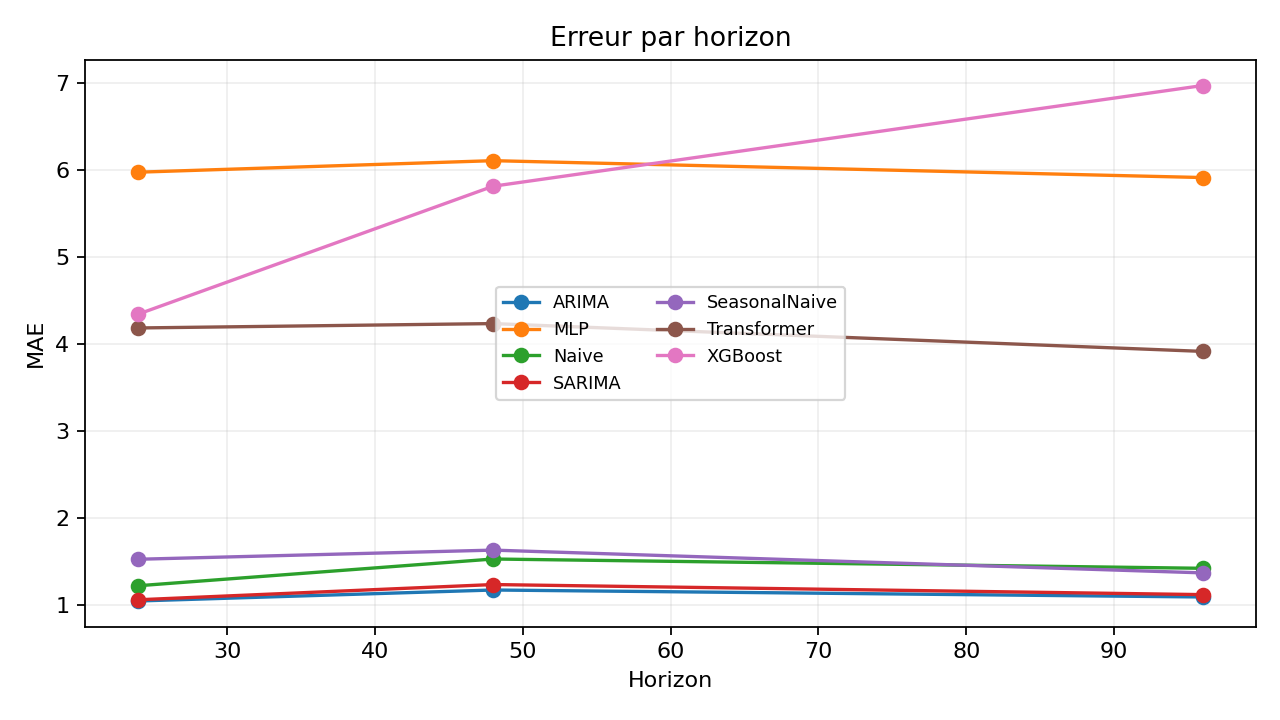
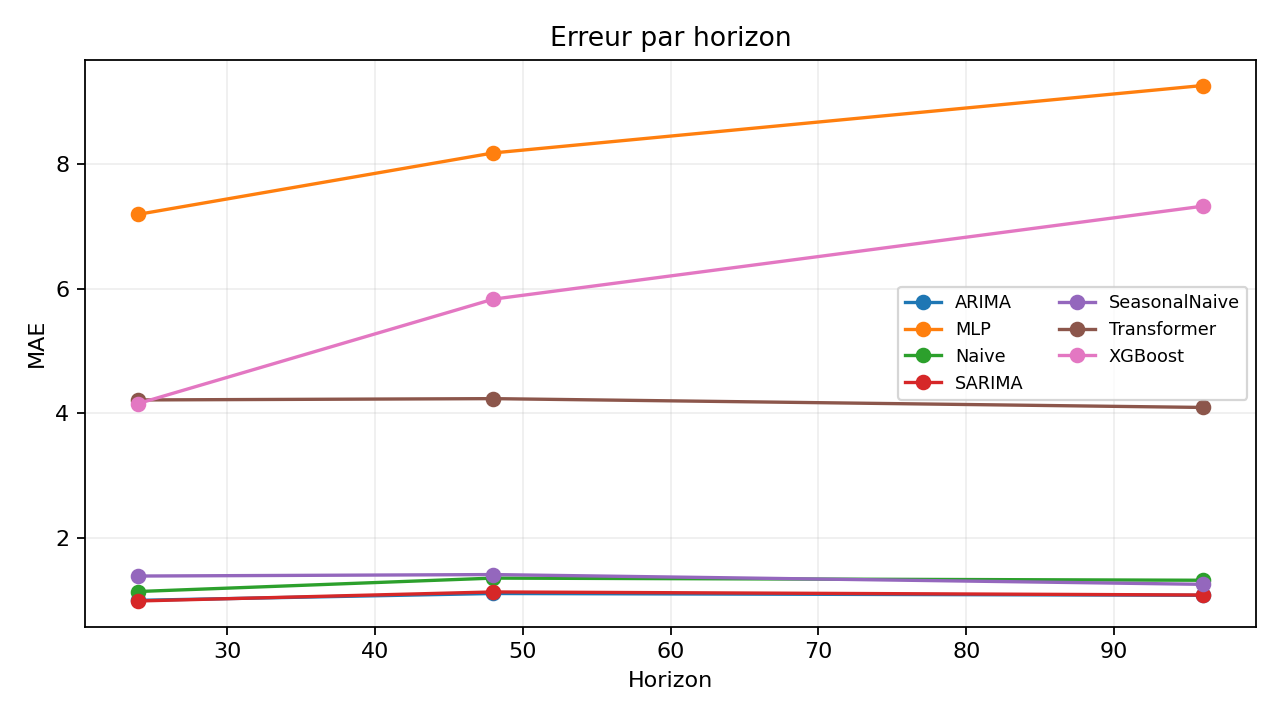
experiment: publish extended CPU benchmark

diff --git a/README.md b/README.md
@@ -11,9 +11,9 @@ pas une revendication d'état de l'art.
 ETTh1 contient 17420 observations horaires. Le split temporel est
 strict, avec frontières aux indices 12194 et
 13935. Le normaliseur est ajusté sur le train uniquement.
-Le run rapporté utilise 4096 fenêtres train,
-64 validation et 64 test,
-avec la seed 42 et la configuration `configs/default.yaml`.
+Le run rapporté utilise 8192 fenêtres train,
+128 validation et 128 test,
+avec la seed 42 et la configuration `configs/long.yaml`.
 
 ## Architecture
 
@@ -37,27 +37,27 @@ multivariés ainsi que l'heure, le jour de semaine et le mois en encodage cycliq
 
 | model | horizon | MAE | RMSE | MAPE | sMAPE |
 | --- | --- | --- | --- | --- | --- |
-| ARIMA | 24 | 1.0489 | 1.3334 | 56.8008 | 49.2920 |
-| SARIMA | 24 | 1.0629 | 1.3495 | 57.7695 | 50.3507 |
-| Naive | 24 | 1.2240 | 1.5502 | 65.3857 | 59.4457 |
-| SeasonalNaive | 24 | 1.5282 | 1.8549 | 87.8313 | 68.1129 |
-| Transformer | 24 | 4.1853 | 4.3594 | 223.1382 | 95.9831 |
-| XGBoost | 24 | 4.3442 | 4.7082 | 231.6889 | 95.2568 |
-| MLP | 24 | 5.9748 | 6.2079 | 310.9857 | 111.3227 |
-| ARIMA | 48 | 1.1750 | 1.4351 | 58.6731 | 50.5312 |
-| SARIMA | 48 | 1.2377 | 1.5115 | 61.8776 | 53.0211 |
-| Naive | 48 | 1.5311 | 1.8757 | 75.4211 | 66.7472 |
-| SeasonalNaive | 48 | 1.6332 | 1.9098 | 85.1341 | 70.0762 |
-| Transformer | 48 | 4.2356 | 4.4268 | 215.2431 | 93.5866 |
-| XGBoost | 48 | 5.8135 | 6.2141 | 282.5437 | 105.7228 |
-| MLP | 48 | 6.1071 | 6.3852 | 304.8798 | 109.2390 |
-| ARIMA | 96 | 1.0949 | 1.3284 | 45.4974 | 42.1078 |
-| SARIMA | 96 | 1.1219 | 1.3774 | 47.0109 | 43.2373 |
-| SeasonalNaive | 96 | 1.3717 | 1.6954 | 61.4562 | 57.2663 |
-| Naive | 96 | 1.4243 | 1.7864 | 59.9222 | 59.2250 |
-| Transformer | 96 | 3.9160 | 4.1100 | 176.5223 | 83.5484 |
-| MLP | 96 | 5.9132 | 6.1586 | 257.4253 | 101.8592 |
-| XGBoost | 96 | 6.9705 | 7.2710 | 289.4379 | 109.0756 |
+| SARIMA | 24 | 0.9808 | 1.2486 | 46.1643 | 39.8982 |
+| ARIMA | 24 | 0.9912 | 1.2543 | 46.1416 | 39.9865 |
+| Naive | 24 | 1.1330 | 1.4406 | 52.9917 | 46.9395 |
+| SeasonalNaive | 24 | 1.3815 | 1.6695 | 67.1171 | 55.3644 |
+| XGBoost | 24 | 4.1532 | 4.5474 | 191.2434 | 85.0250 |
+| Transformer | 24 | 4.2102 | 4.3797 | 191.6749 | 88.3118 |
+| MLP | 24 | 7.1918 | 7.3837 | 308.6812 | 113.2427 |
+| ARIMA | 48 | 1.1012 | 1.3356 | 47.7821 | 41.9891 |
+| SARIMA | 48 | 1.1261 | 1.3732 | 49.4503 | 42.9918 |
+| Naive | 48 | 1.3482 | 1.6743 | 59.6955 | 52.5483 |
+| SeasonalNaive | 48 | 1.4051 | 1.6739 | 64.0825 | 55.3134 |
+| Transformer | 48 | 4.2312 | 4.4105 | 187.8767 | 87.1374 |
+| XGBoost | 48 | 5.8289 | 6.3043 | 250.4910 | 98.7790 |
+| MLP | 48 | 8.1780 | 8.4575 | 344.8114 | 117.1652 |
+| ARIMA | 96 | 1.0724 | 1.3285 | 38.4990 | 36.8905 |
+| SARIMA | 96 | 1.0768 | 1.3425 | 39.2434 | 37.1363 |
+| SeasonalNaive | 96 | 1.2484 | 1.5403 | 48.8360 | 46.8784 |
+| Naive | 96 | 1.3138 | 1.6535 | 49.5611 | 48.3004 |
+| Transformer | 96 | 4.0898 | 4.2660 | 163.4927 | 81.0755 |
+| XGBoost | 96 | 7.3227 | 7.7094 | 272.8322 | 106.0843 |
+| MLP | 96 | 9.2614 | 9.5597 | 346.3863 | 118.6603 |
 
 ![Erreur par horizon](results/error_by_horizon.png)
 
@@ -67,10 +67,10 @@ multivariés ainsi que l'heure, le jour de semaine et le mois en encodage cycliq
 
 ## Analyse honnête
 
-Meilleur MAE observé par horizon: H=24: ARIMA (MAE 1.0489); H=48: ARIMA (MAE 1.1750); H=96: ARIMA (MAE 1.0949).
-Le Transformer ne gagne sur aucun horizon dans ce run. Détail: H=24: écart de 3.1364 MAE face au meilleur modèle; H=48: écart de 3.0606 MAE face au meilleur modèle; H=96: écart de 2.8211 MAE face au meilleur modèle.
+Meilleur MAE observé par horizon: H=24: SARIMA (MAE 0.9808); H=48: ARIMA (MAE 1.1012); H=96: ARIMA (MAE 1.0724).
+Le Transformer ne gagne sur aucun horizon dans ce run. Détail: H=24: écart de 3.2294 MAE face au meilleur modèle; H=48: écart de 3.1301 MAE face au meilleur modèle; H=96: écart de 3.0174 MAE face au meilleur modèle.
 Le temps mesuré d'entraînement du Transformer est
-10.38 s sur `cpu`.
+19.39 s sur `cpu`.
 Ces chiffres décrivent ce run précis et ne sont pas extrapolés. MAPE exclut les
 cibles exactement nulles, pour lesquelles cette métrique est indéfinie.
 

diff --git a/results/metrics.md b/results/metrics.md
@@ -1,23 +1,23 @@
 | model | horizon | MAE | RMSE | MAPE | sMAPE |
 | --- | --- | --- | --- | --- | --- |
-| ARIMA | 24 | 1.0489 | 1.3334 | 56.8008 | 49.2920 |
-| SARIMA | 24 | 1.0629 | 1.3495 | 57.7695 | 50.3507 |
-| Naive | 24 | 1.2240 | 1.5502 | 65.3857 | 59.4457 |
-| SeasonalNaive | 24 | 1.5282 | 1.8549 | 87.8313 | 68.1129 |
-| Transformer | 24 | 4.1853 | 4.3594 | 223.1382 | 95.9831 |
-| XGBoost | 24 | 4.3442 | 4.7082 | 231.6889 | 95.2568 |
-| MLP | 24 | 5.9748 | 6.2079 | 310.9857 | 111.3227 |
-| ARIMA | 48 | 1.1750 | 1.4351 | 58.6731 | 50.5312 |
-| SARIMA | 48 | 1.2377 | 1.5115 | 61.8776 | 53.0211 |
-| Naive | 48 | 1.5311 | 1.8757 | 75.4211 | 66.7472 |
-| SeasonalNaive | 48 | 1.6332 | 1.9098 | 85.1341 | 70.0762 |
-| Transformer | 48 | 4.2356 | 4.4268 | 215.2431 | 93.5866 |
-| XGBoost | 48 | 5.8135 | 6.2141 | 282.5437 | 105.7228 |
-| MLP | 48 | 6.1071 | 6.3852 | 304.8798 | 109.2390 |
-| ARIMA | 96 | 1.0949 | 1.3284 | 45.4974 | 42.1078 |
-| SARIMA | 96 | 1.1219 | 1.3774 | 47.0109 | 43.2373 |
-| SeasonalNaive | 96 | 1.3717 | 1.6954 | 61.4562 | 57.2663 |
-| Naive | 96 | 1.4243 | 1.7864 | 59.9222 | 59.2250 |
-| Transformer | 96 | 3.9160 | 4.1100 | 176.5223 | 83.5484 |
-| MLP | 96 | 5.9132 | 6.1586 | 257.4253 | 101.8592 |
-| XGBoost | 96 | 6.9705 | 7.2710 | 289.4379 | 109.0756 |
+| SARIMA | 24 | 0.9808 | 1.2486 | 46.1643 | 39.8982 |
+| ARIMA | 24 | 0.9912 | 1.2543 | 46.1416 | 39.9865 |
+| Naive | 24 | 1.1330 | 1.4406 | 52.9917 | 46.9395 |
+| SeasonalNaive | 24 | 1.3815 | 1.6695 | 67.1171 | 55.3644 |
+| XGBoost | 24 | 4.1532 | 4.5474 | 191.2434 | 85.0250 |
+| Transformer | 24 | 4.2102 | 4.3797 | 191.6749 | 88.3118 |
+| MLP | 24 | 7.1918 | 7.3837 | 308.6812 | 113.2427 |
+| ARIMA | 48 | 1.1012 | 1.3356 | 47.7821 | 41.9891 |
+| SARIMA | 48 | 1.1261 | 1.3732 | 49.4503 | 42.9918 |
+| Naive | 48 | 1.3482 | 1.6743 | 59.6955 | 52.5483 |
+| SeasonalNaive | 48 | 1.4051 | 1.6739 | 64.0825 | 55.3134 |
+| Transformer | 48 | 4.2312 | 4.4105 | 187.8767 | 87.1374 |
+| XGBoost | 48 | 5.8289 | 6.3043 | 250.4910 | 98.7790 |
+| MLP | 48 | 8.1780 | 8.4575 | 344.8114 | 117.1652 |
+| ARIMA | 96 | 1.0724 | 1.3285 | 38.4990 | 36.8905 |
+| SARIMA | 96 | 1.0768 | 1.3425 | 39.2434 | 37.1363 |
+| SeasonalNaive | 96 | 1.2484 | 1.5403 | 48.8360 | 46.8784 |
+| Naive | 96 | 1.3138 | 1.6535 | 49.5611 | 48.3004 |
+| Transformer | 96 | 4.0898 | 4.2660 | 163.4927 | 81.0755 |
+| XGBoost | 96 | 7.3227 | 7.7094 | 272.8322 | 106.0843 |
+| MLP | 96 | 9.2614 | 9.5597 | 346.3863 | 118.6603 |
